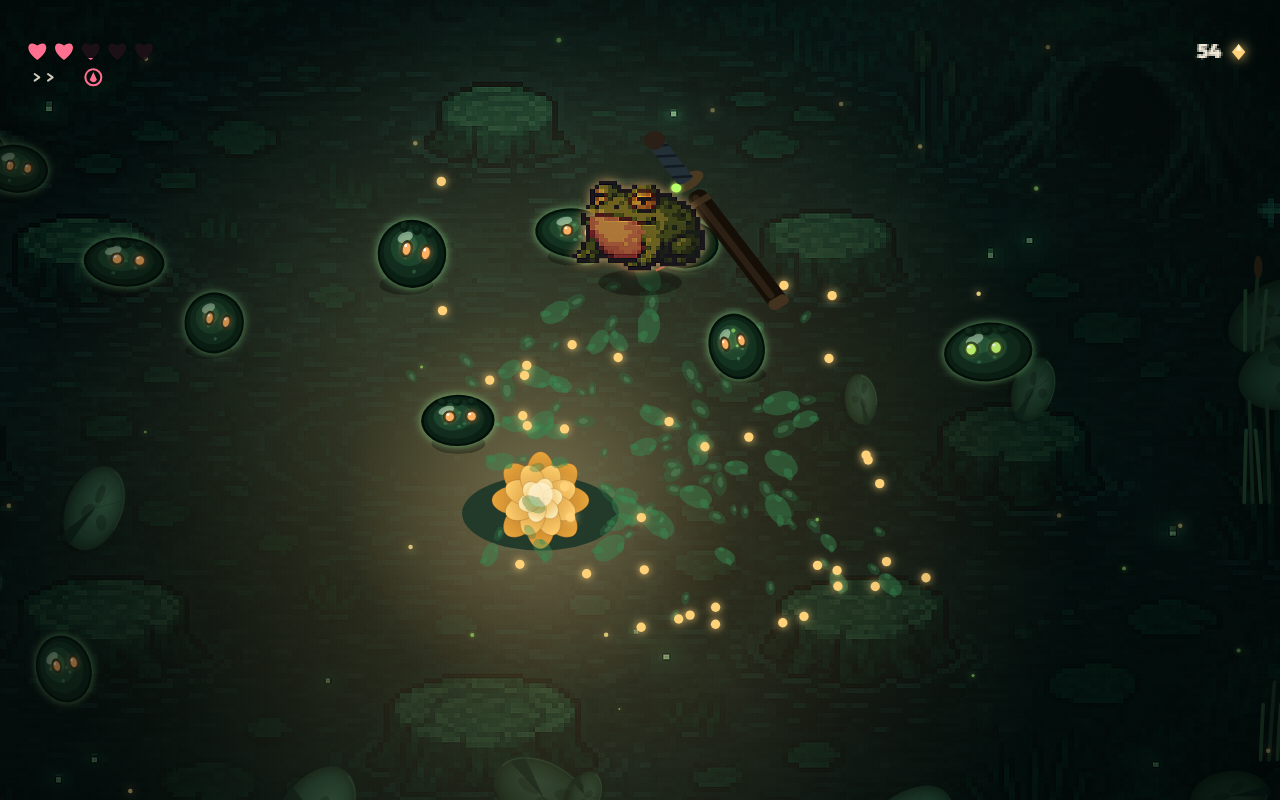
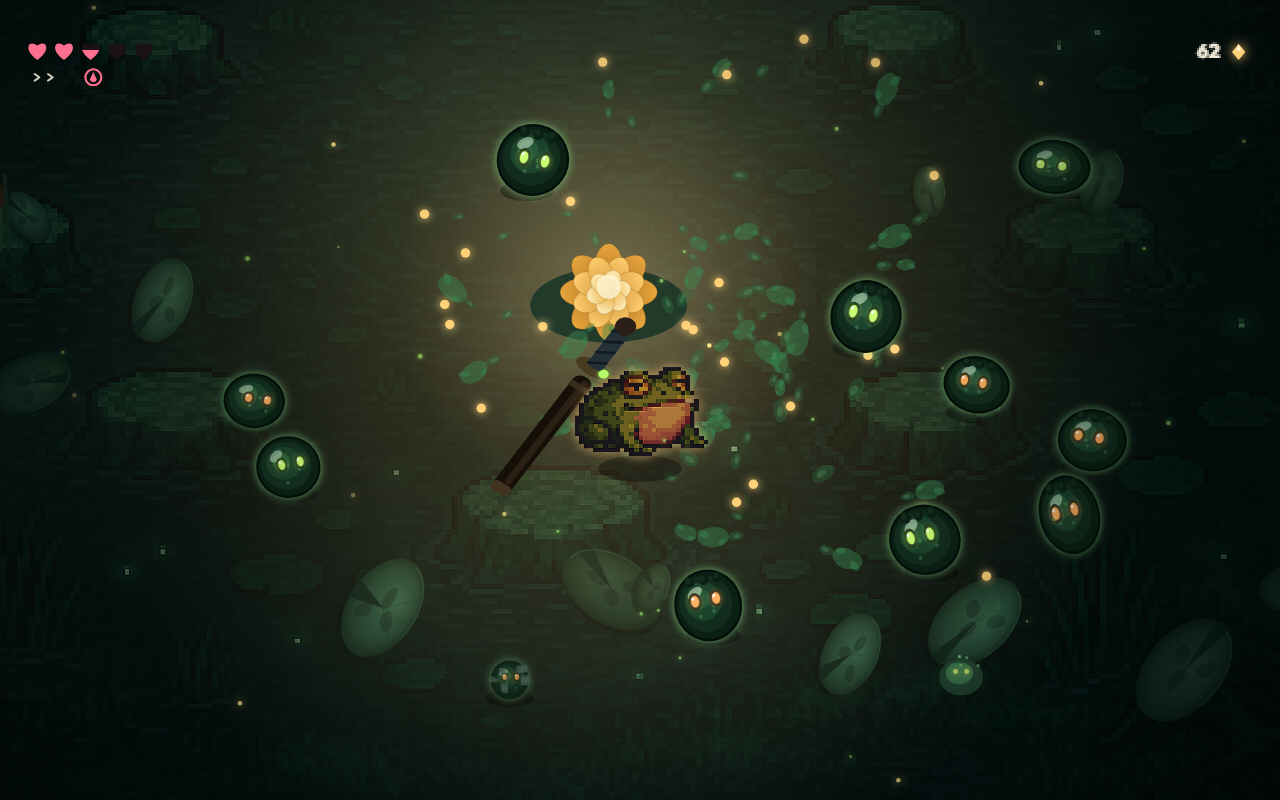
R10: heavier physics feel — stronger shove knockback, springy hit-reaction, walk jiggle
- Non-launching hits knock enemies back x1.4 (slide with momentum); launching hits keep raw
  velocity so tumble/bowling/wall-splat economy + tests are untouched (gated on willLaunch).
- Enemy hit-reaction: compress at impact -> damped jiggle -> settle (was a static flatten).
- Frog gains a walking belly-jiggle secondary squash (never a rigid sliding sprite).
- Tests updated for the intentionally-heavier hitstop (bowler freezes longer); 23/23 green.

diff --git a/src/render/render.ts b/src/render/render.ts
@@ -651,6 +651,9 @@ function drawFrog(ctx: CanvasRenderingContext2D, w: World, fx: number, fy: numbe
     const b = Math.sin(time * 1.9) * 0.05;
     squashX = squashX * 1.04 - b; squashY = squashY * 0.99 + b;
   }
+  // walking belly jiggle — a secondary squash wobble at 2x the hop so the plump body reads soft,
+  // never a rigid sliding sprite (Ian: belly jiggle / secondary motion).
+  if (moving) { const jig = Math.sin(f.hopPhase * Math.PI * 4) * 0.04; squashX += jig; squashY -= jig; }
   if (atk.phase === 'windup' || atk.phase === 'heavywindup') { squashX *= 1.08; squashY *= 0.9; }
   if (atk.phase === 'heavyhold') { squashX *= 1.12 + Math.sin(time * 18) * 0.015; squashY *= 0.86; }
   if (atk.phase === 'active') { squashX *= 0.92; squashY *= 1.1; }
@@ -1045,7 +1048,14 @@ function drawEnemy(ctx: CanvasRenderingContext2D, e: Enemy, alpha: number, time:
     // idle bob — per-instance phase so a crowd never syncs (critics: "wall of clones")
     ctx.translate(0, Math.sin(time * 2.4 + e.seed * 25) * r * 0.09);
   }
-  if (e.flashT > 0) ctx.scale(1.3, 0.72);           // hard flatten recoil on hit (juice)
+  if (e.flashT > 0) {
+    // hit reaction: hard compress at impact, then spring back with a damped jiggle before settling
+    // (Ian: compress -> recoil -> bounce -> jiggle -> settle). k: 0 at impact -> 1 as the flash ends.
+    const k = Math.min(1, 1 - e.flashT / 0.16);
+    const amp = 1 - k;
+    const jig = Math.sin(k * Math.PI * 3) * 0.07 * (1 - k);
+    ctx.scale(1 + amp * 0.34 + jig, 1 - amp * 0.3 - jig);
+  }
   drawSlime(ctx, e, r, time, warm);
 
   ctx.restore();

diff --git a/src/sim/combat.ts b/src/sim/combat.ts
@@ -58,8 +58,11 @@ export function applyMeleeHit(
   res.killed = e.hp <= 0;
   const overkill = res.killed && dmg >= hpBefore * OVERKILL_MULT;
 
-  // knockback impulse -> velocity change
-  const dv = impulse / data.mass;
+  // knockback impulse -> velocity change. Ian masterpass: STRONG shove — non-launching hits slide
+  // enemies back x1.4 with momentum. LAUNCHING hits keep raw velocity so the tumble/bowling/wall-
+  // splat economy (and its tests) is untouched.
+  const tumbles = !res.killed && willLaunch(impulse, data.mass);
+  const dv = (impulse / data.mass) * (tumbles ? 1 : 1.4);
   e.vx += dirX * dv;
   e.vy += dirY * dv;
 
@@ -74,7 +77,7 @@ export function applyMeleeHit(
   }
 
   // launch check -> tumble (enemies as projectiles)
-  if (!res.killed && willLaunch(impulse, data.mass)) {
+  if (tumbles) {
     e.state = 'tumble';
     e.stateF = 0;
     e.tumbleT = TUMBLE_TIME;
